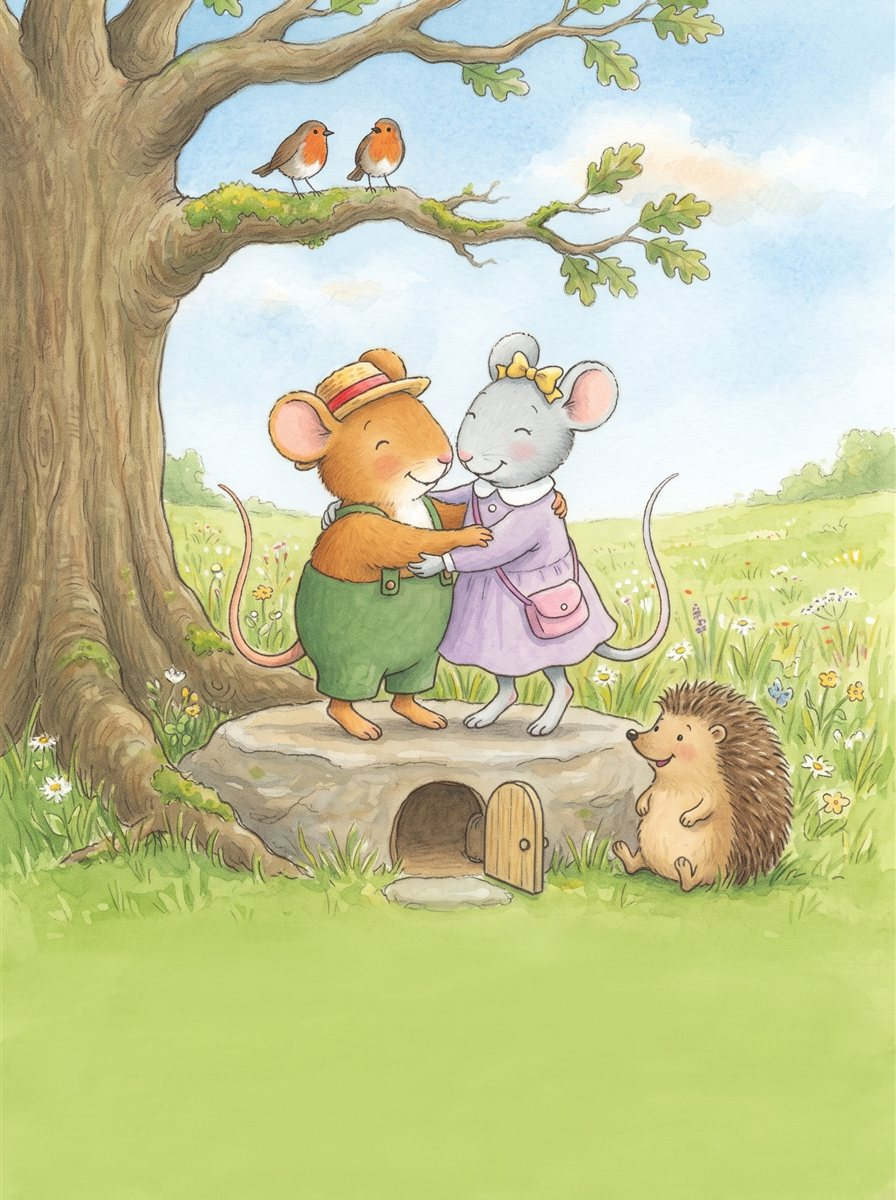
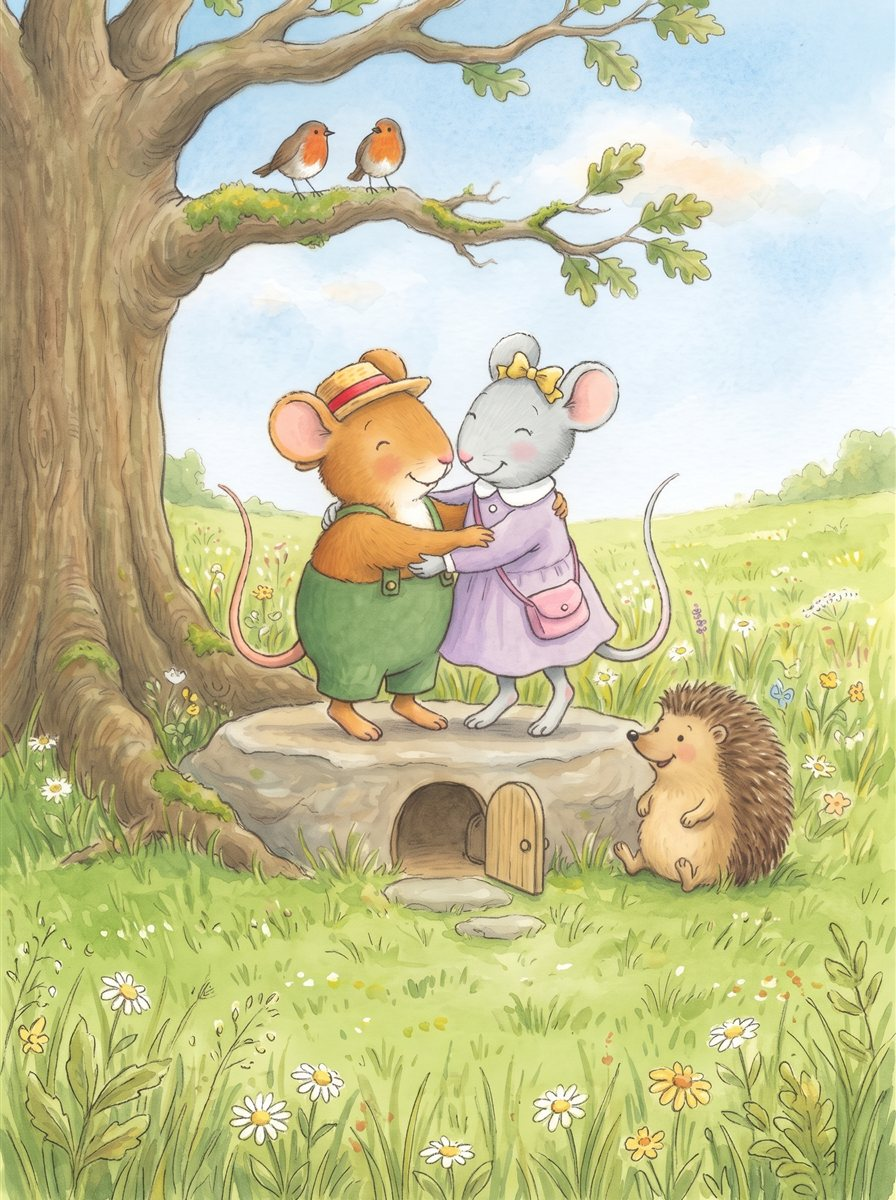
feat(dino): Town Mouse page 2 redrawn to the bottom edge (Slice 350)

diff --git a/docs/plan/slices/350-dino-high-res-pictures.md b/docs/plan/slices/350-dino-high-res-pictures.md
@@ -111,7 +111,8 @@ extension (traced in B3: both are called on a book's `pictures` and `translation
   - On hold (the user, 2026-11-15, after Freddy shipped in #1195): "dont start a new. I dont have enough tokens to go through the rest of the week". Jack and the Beanstalk does not start until the user says so. Hold lifted (the user, 2026-11-16, going to sleep): "ok, do them as much as you can 1 by 1". The 12 books left run one at a time in the order of the *Books* line below, Jack first; each book is recovered from the Gemini history first, then only flagged or failing pages are redrawn on 3.1 Pro, and each ships in its own PR.
   - **jack-and-the-beanstalk: done 2026-11-16.** All 36 earlier chats recovered (one new tab per chat: Chrome writes only the first download of a tab); 13 accepted pictures kept as recovered; page 3 redrawn as a full-size copy (its only original was 896x1200), pages 4 and 15 fixed (record and the reviewer's PASS with notes in the book's `art.md`). App copies of 3, 4 and 15 updated. Tooling items found: (h) the SKILL.md loader line fails on Gemini's Trusted Types policy; wrap the eval in `trustedTypes.createPolicy(...).createScript(...)`; (i) `__drawPicture` still returns the webp preview's size (fault f), every picture needed a second `__grab(1)`; (j) BookBuilder `check` can't run on this PC: .NET SDK 11.0.100 is not installed (only 10.0.300 and 10.0.402).
   - Night run 2026-11-16/17 (each book's record, chat ids and the reviewer's notes for the user are in its own `art.md`): **done and merged** jack-and-the-beanstalk (#1216, back-cover fix #1217), elves-and-shoemaker (#1218), billy-goats-gruff (#1219), goldilocks (#1220), gingerbread-man (#1221), little-red-hen (#1222), red-riding-hood (#1223), tortoise-and-hare (#1224). Rule used: a page whose full-size original was not in the Gemini history was redrawn on 3.1 Pro as a full-size copy of the user-accepted app picture; a line70 crossing or plain bottom that the accepted picture already had was kept and listed for the user, never redrawn without the user's word. **Still open** (originals recovered, redraw folders in that session's scratchpad): three-little-pigs (no full-size original anywhere: cover and 1-15 redrawn as copies, page 5 fixed with all three houses finished and Pim not outside; page 16 left), town-mouse-country-mouse (all originals recovered; pages 1, 3, 4, 5, 6, 13, 14 to redraw with the scene to the bottom edge), ugly-duckling (all originals found in `Downloads`; pages 8-11 to fix), x-marks-the-treasure (originals in `Downloads` for all but page 8; page 8 copy and page 17 hug fix left). Stopped by Gemini's image limit (resets 12:05 on 2026-11-17).
-  - Session 2026-11-19 (user OK to use Chrome and Gemini, "ok"; model 4 Hydrogen per A7; each book's record and the reviewer's notes for the user in its own `art.md`): **three-little-pigs** done (#1291): page 16 drawn, page 5 redrawn as the first option of its fix row (the Wolf at the straw house, page 6's meadow, no brick house) and patched to remove a scribble, app copy of page 5, v18. **ugly-duckling** done (#1292): pages 8-11 redrawn, page 11 best of 3 (reflection about 74.4%), listed for the user. **x-marks-the-treasure** done (#1293): page 8 copied, page 17 hug fix best of 3 (boots about 75%), listed for the user. **town-mouse-country-mouse**: 9 pages recovered from the Gemini history, 7 redrawn full bleed; in the reviewer pass.
+  - Session 2026-11-19 (user OK to use Chrome and Gemini, "ok"; model 4 Hydrogen per A7; each book's record and the reviewer's notes for the user in its own `art.md`): **three-little-pigs** done (#1291): page 16 drawn, page 5 redrawn as the first option of its fix row (the Wolf at the straw house, page 6's meadow, no brick house) and patched to remove a scribble, app copy of page 5, v18. **ugly-duckling** done (#1292): pages 8-11 redrawn, page 11 best of 3 (reflection about 74.4%), listed for the user. **x-marks-the-treasure** done (#1293): page 8 copied, page 17 hug fix best of 3 (boots about 75%), listed for the user. **town-mouse-country-mouse** done (#1294): 9 pages recovered from the Gemini history, 7 redrawn full bleed, page 13 best of 3 (hoof about 74.4%).
+  - **Accepted by the user (2026-11-19), after a page showing each question's pictures with the 73% line:** "akk are ok. just townmouse 2 needs redrawing. all else is good". So these stay as they are and are never redrawn without the user naming them: three-little-pigs 1, 10, 11, 12, 14, 15, 16 and the cover (feet and tail near or below the line, tooth tip, tongue, daylight window, pale patch); ugly-duckling 1, 2, 4-7, 12-14 (plain bottom strips) and 11 (reflection 74.4%); town-mouse-country-mouse 8 (plain strip) and 13 (hoof 74.4%); x-marks-the-treasure 8 and 17. **To redraw:** town-mouse-country-mouse page 2 (plain green strip at the bottom; draw the scene down to the bottom edge, as pages 1, 3-6 were).
   - More tooling items from the night: (k) every high-res `back-cover.jpg` from Slice 359 is Gemini's untouched download (2.2-2.7 MB) and the store skips a book whose high-res file is over 1.5 MB: the finish step must pass it through `-HighRes` (Jack's run failed on it, #1217); (l) closing a tab often drops the whole Chrome tab group, and tabs opened in a dropped group can no longer be closed by any agent: about 40 idle Gemini tabs piled up and Chrome reached about 20 GB, so Claude Code's memory guard killed the keep-awake script; agents need a way to close their own tabs that survives a group change; (m) a burst of tab openings drew a Google CAPTCHA at 02:18 (one stale tab); a fresh tab an hour later was fine; (n) originals of older books also sit in `%USERPROFILE%\Downloads` as old `Gemini_Generated_Image_*.jpg` files: match there before opening chats (Ugly Duckling, X Marks); (o) copy mode keeps an old paper border or plain bottom unless the first prompt asks to crop the margin off and enlarge the painting to full bleed; (p) a brief that says "open ONE tab" makes the auto-mode classifier deny a second tab for a retry.
   - Book order (the user, 2026-11-14): freddy-and-the-slipper next ("do freddy"), then jack-and-the-beanstalk ("after freddy do Jack and the Beanstalk"). Each starts by recovering its earlier pictures from the Gemini chat history (SKILL.md rule 3).
   - Freddy recover run, 2026-11-14: 29 pictures from 13 of 17 found chats (scratchpad `freddy-recover/index.md`), stopped by a Google CAPTCHA at 22:41 after a burst of new-tab downloads. Left: chats 13 (third picture) to 17 and the "slipper"/"raccoon" searches. On small copies: 9, 10, 11, 12 pass; 6, 7, 8 borderline; cover, 1-5, 13, 14 have no passing picture yet. Tooling item: Chrome wrote only one download per tab (the second failed silently), which is likely Chrome's multiple-downloads block; the save step needs a way that doesn't need a new tab per picture.

diff --git a/content/dino/town-mouse-country-mouse/art.md b/content/dino/town-mouse-country-mouse/art.md
@@ -190,6 +190,7 @@ Page 2 redrawn a third time at the coordinator's request (mice and hedgehog in t
 - **Recovered from the Gemini history, untouched** (the accepted pictures, each matched to its app picture by pixel comparison, difference under 0.5), chat id and size: cover 4c644fd4e7394418 (3424366 B), 2 263e697d0cab39d0 (3548750), 7 808771f706eec64c (2824332), 8 cae9ed1242976abb (2903210), 9 bcfaca0efa320721 (2739588), 10 831214fafc43dece (3184923), 11 c3a5235b54c80572 (3043036), 12 b96d2968668299e4 (2985098), 15 aac5493d1c156e14 (2982794).
 - **Redrawn on 4 Hydrogen** (the user's pick of 2026-11-19; Gemini no longer offers 3.1 Pro), one new chat each, full bleed, as copies of the accepted picture (the originals of 1, 3, 4 and 14 were not in the history, so the app picture was the reference): 1 chat 55c43b8bb9e3c758 (3296240 B, try 1), 3 511ecbe02d0198c3 (3386161, try 1), 4 6dad18ea3279a87b (3201585, try 1), 5 6ccb019f2263e701 (3439702, try 1), 6 13be0f970b1bf14d (3245488, try 1), 13 c6dbc36df2b81203 (3045776, try 3 of 3), 14 19cd2d53fe026806 (3258271, try 1). Each small copy was checked for counts, outfits, limbs, no words, scene to the bottom edge and line70.
 - **For the user:** page 13's front hoof tip reaches about 74% (line 73%) in all three tries, since Hydrogen keeps the accepted composition; try 3 kept because its bottom is full cobbles (try 2 had a washed-out bottom). Page 14's hedgehog nose touches the 73% line. Pages 2 and 8 (not on the fix list, kept as accepted) still have a plain flat strip at the bottom (2 green, 8 beige).
+- **Page 2 redrawn (2026-11-19, the user's word: plain green strip at the bottom)**, 4 Hydrogen (label read as Hydrogen), new chat c3f38aaa06ce91fc, try 1 of 3, a faithful copy of the accepted picture with the margin cropped and enlarged to full bleed (item (o)); untouched 1792x2400, 3179538 B, in the scratchpad as `tm/final/2-redraw.jpg`. Small copy and line70 checked: two mice, one hedgehog, two robins, same outfits, no words, meadow grass and daisies to the bottom edge; the hedgehog's feet and the door touch the 73% line, as in the accepted picture. Only `high-res/2.jpg`, `pictures/2.jpg` and `high-res/contact-sheet.jpg` changed. Page 8 (beige strip) stays as the user accepted it.
 
 ## Reviewer, 2026-11-19 (Slice 350 part D2, full mode, high-res)
 
@@ -200,3 +201,11 @@ Page 2 redrawn a third time at the coordinator's request (mice and hedgehog in t
 - **Accepted pages listed for the user (never redrawn without their word):** on the cover the hedgehog sits mostly in the bottom 27%. On page 11 both mice's legs and Town Mouse's dress are below the line, at about 80%. On pages 2 and 7 the feet touch the line. Pages 2 and 8 have a plain flat strip at the bottom.
 - **Consistency notes (accepted pictures, not blocking):** the mouse-hole door moves between pictures. It is in the roots on page 1, under the flat stone on page 2, a large door in the trunk on page 5, and a high round cutaway room on page 14. The kitchen window has crossbars on pages 8 and 9, but the plan asks for a single pane.
 - **Back cover:** both mice are whole and dressed as in the book, there are no words, the middle is open sky for the credits, and it matches the app's `back-cover.jpg`. `book.json`'s credit (`storyBy` Aesop, `retold`) and its `namesByLanguage` spellings in all 14 languages are correct. The back cover was not checked in the running app.
+
+## Reviewer, 2026-11-19 (Slice 350 part D2, page 2 redraw)
+
+**PASS.** The `dino-story-reviewer` checked the redrawn page 2 (the user's word of 2026-11-19: carry the scene down to the bottom edge instead of the plain green strip) on small copies of the untouched download `tm/final/2-redraw.jpg`, the accepted original `tm/final/2.jpg` and the repo's `high-res/2.jpg`, the line70 overlay of each, the app copy `pictures/2.jpg`, and pages 1 and 3 for the place.
+- It is a faithful copy of the accepted picture: the same hug on the flat stone, two mice in their outfits (straw hat with red band and green dungarees; lilac dress, white collar, yellow bow, pink bag), one hedgehog on the ground, two robins on the branch, the open door under the stone. Counts, limbs and time of day are right, and there are no words.
+- The plain green strip is gone: meadow grass, daisies and buttercups run to the bottom edge, matching the meadow of pages 1 and 3. Nothing from another page was added.
+- The hedgehog's feet and the bottom of the door touch the 73% line exactly as in the accepted picture; no character goes further into the strip.
+- `high-res/2.jpg` (1792x2400, 806370 B) and `pictures/2.jpg` (896x1200) are the same picture as the download (mean pixel difference 2.4 and 8.2, in line with pages 1 and 3 at 2.6-2.7 and 8.5-10.6 from the same pack step).
